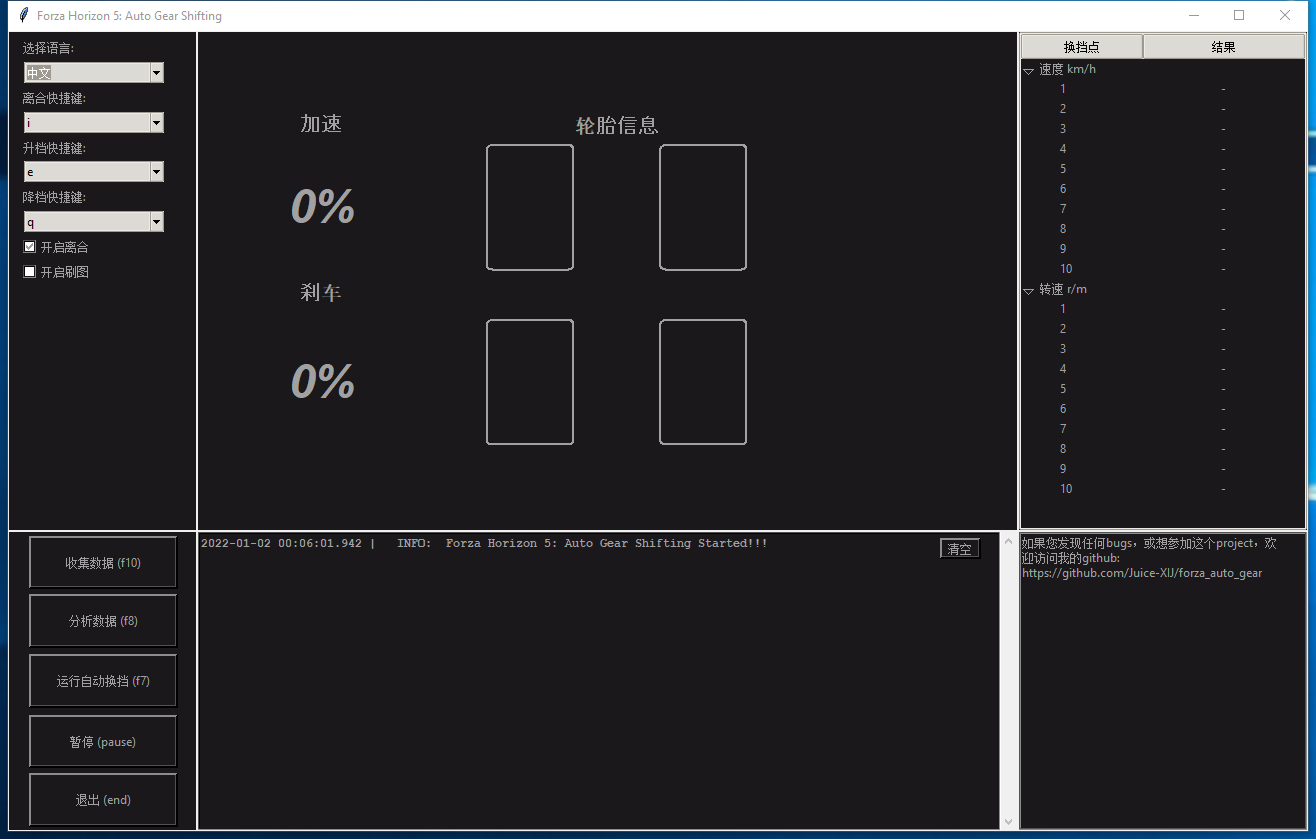
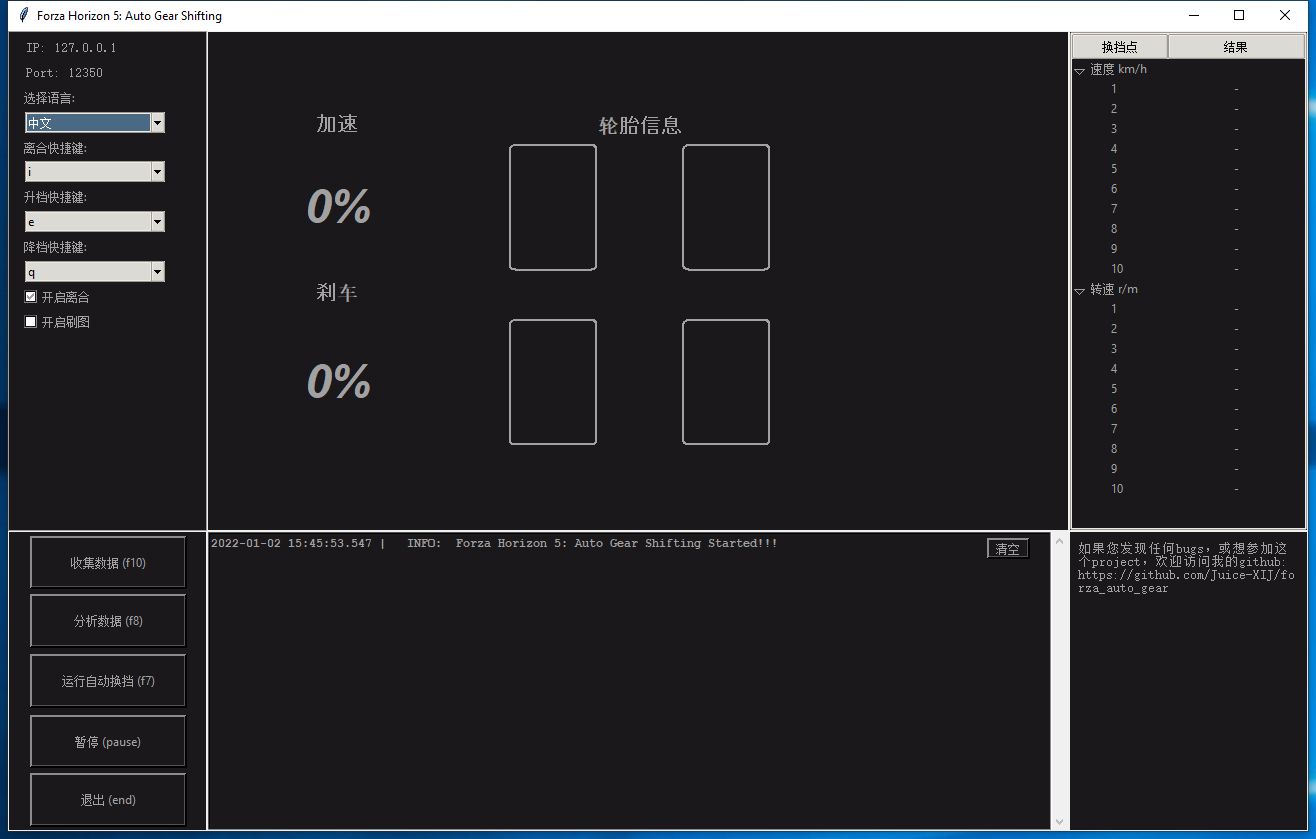
show ip and port

diff --git a/gui.py b/gui.py
@@ -132,6 +132,12 @@ class MainWindow:
             self.treeview.item(self.speed_level, text=self.speed_txt.get())
             self.treeview.item(self.rpm_level, text=self.rpm_txt.get())
 
+        if hasattr(self, 'program_info'):
+            self.program_info.configure(state=tkinter.NORMAL)
+            self.program_info.delete("1.0", tkinter.END)
+            self.program_info.insert('1.0', self.program_info_txt.get())
+            self.program_info.configure(state=tkinter.DISABLED)
+
     def update_tree(self):
         """Update shift point tree
         """
@@ -238,6 +244,21 @@ class MainWindow:
         language_combobox.place(relx=0.08, rely=self.get_rely(pre_widget_count), anchor="w")
         return pre_widget_count + 1
 
+    def place_ip_port(self, pre_widget_count=0):
+        self.ip_widget = tkinter.Text(self.car_info_frame, borderwidth=0, bg=constants.background_color, fg=constants.text_color, wrap=tkinter.WORD)
+        self.ip_widget.insert("1.0", f'IP: {self.forza5.ip}')
+        self.ip_widget.place(relx=0.08, rely=self.get_rely(pre_widget_count), relwidth=0.85, relheight=0.03, anchor="w")
+        self.ip_widget.configure(state="disabled")
+        pre_widget_count = pre_widget_count + 1
+
+        self.port_widget = tkinter.Text(self.car_info_frame, borderwidth=0, bg=constants.background_color, fg=constants.text_color, wrap=tkinter.WORD)
+        self.port_widget.insert("1.0", f'Port: {self.forza5.port}')
+        self.port_widget.place(relx=0.08, rely=self.get_rely(pre_widget_count), relwidth=0.85, relheight=0.03, anchor="w")
+        self.port_widget.configure(state="disabled")
+        pre_widget_count = pre_widget_count + 1
+
+        return pre_widget_count
+
     def place_shortcuts(self, pre_widget_count=0):
         """place shortcuts comboboxes
         """
@@ -325,6 +346,9 @@ class MainWindow:
         # place car setting frame
         self.car_info_frame = tkinter.Frame(self.root, border=0, bg=constants.background_color, relief="groove", highlightthickness=True, highlightcolor=constants.text_color)
         total_widget = 0
+
+        # ==== IP/Port setting ====
+        total_widget = self.place_ip_port(total_widget)
 
         # ==== language setting ====
         total_widget = self.place_languages(total_widget)
@@ -455,9 +479,12 @@ class MainWindow:
         """
         # place code info frame
         self.program_info_frame = tkinter.Frame(self.root, border=0, bg=constants.background_color, relief="groove", highlightthickness=True, highlightcolor=constants.text_color)
-        label = tkinter.Label(self.program_info_frame, textvariable=self.program_info_txt, bg=constants.background_color, borderwidth=2, fg=constants.text_color, relief="groove", anchor="nw", justify=tkinter.LEFT)
-        label.bind('<Configure>', lambda e: label.config(wraplength=int(label.winfo_width() * 0.9)))
-        label.pack(fill="both", expand=True)
+
+        self.program_info = tkinter.Text(self.program_info_frame, borderwidth=0, bg=constants.background_color, fg=constants.text_color, wrap=tkinter.WORD)
+        self.program_info.insert("current", self.program_info_txt.get())
+        self.program_info.place(relx=0.03, rely=0.03, relwidth=0.95, relheight=0.95, anchor='nw', bordermode='inside')
+        self.program_info.configure(state="disabled")
+
         self.program_info_frame.grid(row=1, column=2, sticky='news')
 
     def collect_data_handler(self, event):

diff --git a/helper.py b/helper.py
@@ -257,8 +257,8 @@ def get_sys_lang():
 def create_socket(forza: CarInfo):
     forza.server_socket = socket.socket(socket.AF_INET, socket.SOCK_DGRAM)
     forza.server_socket.settimeout(1)
-    forza.server_socket.bind((constants.ip, constants.port))
-    forza.logger.info(f'listening on IP {constants.ip}, Port {constants.port}')
+    forza.server_socket.bind((forza.ip, forza.port))
+    forza.logger.info(f'listening on IP {forza.ip}, Port {forza.port}')
 
 
 def close_socket(forza: CarInfo):

diff --git a/forza.py b/forza.py
@@ -30,6 +30,10 @@ class Forza(CarInfo):
         """
         super().__init__()
 
+        # === socket ===
+        self.ip = constants.ip
+        self.port = constants.port
+
         # === logger ===
         self.logger = (Logger()('Forza5')) if logger is None else logger
 
